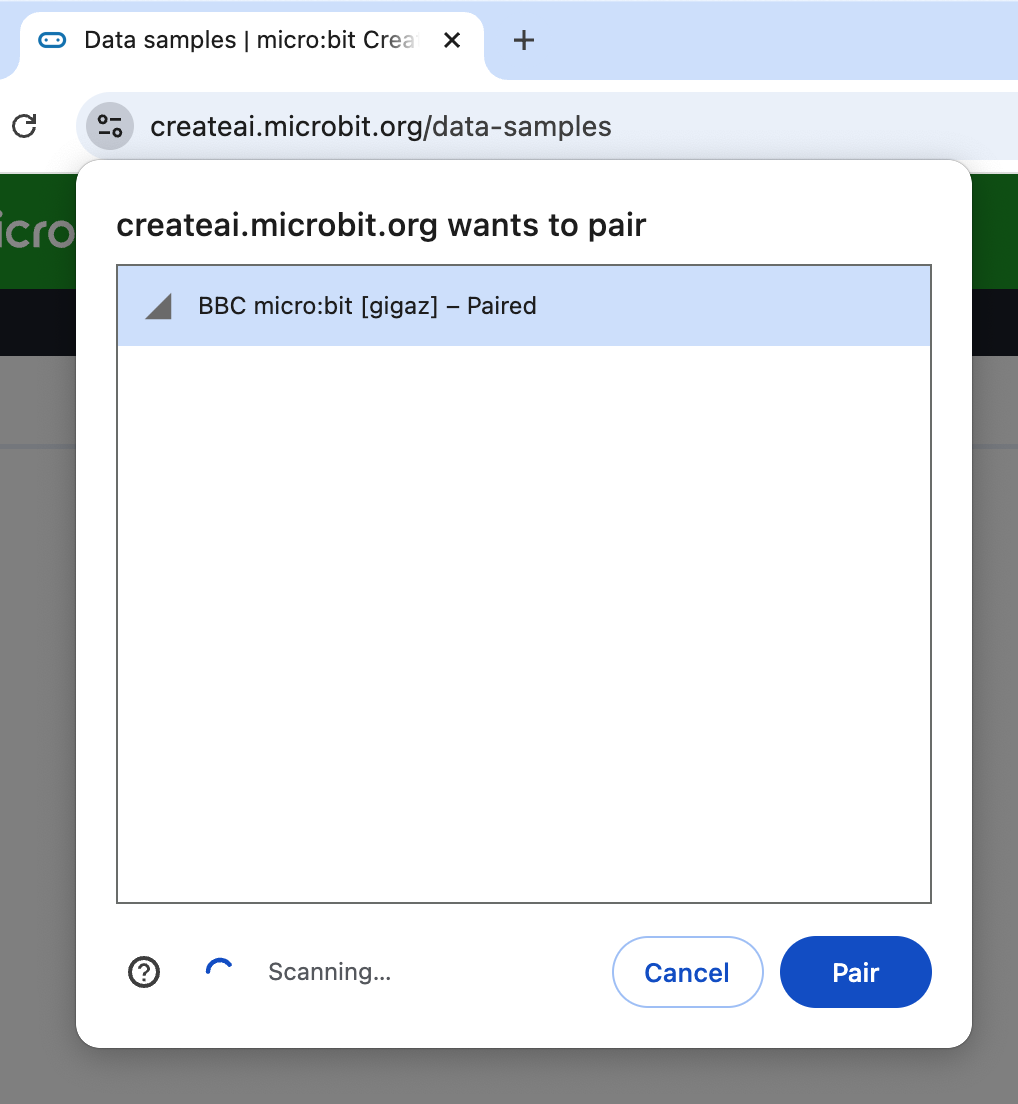
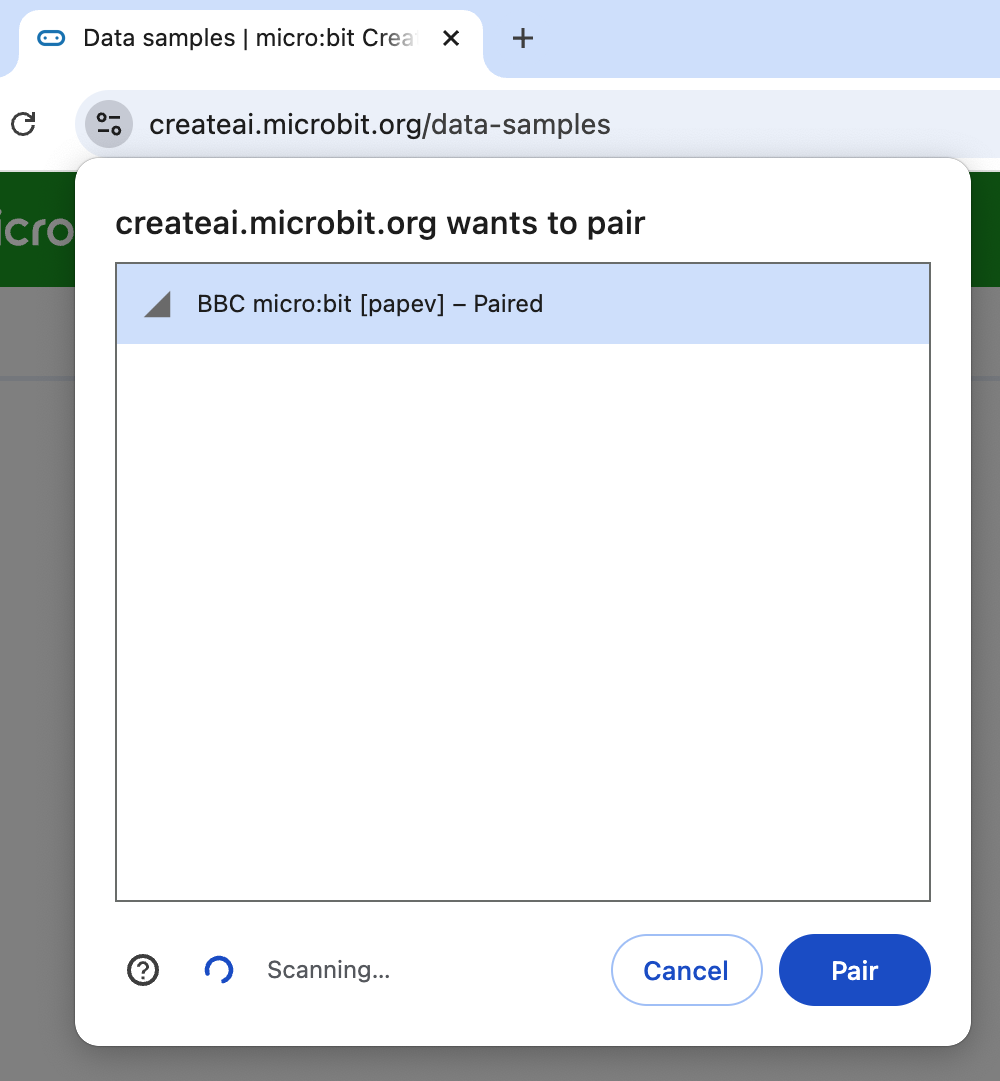
Replace select usb/bluetooth images to not have beta warning bar

diff --git a/src/components/SelectMicrobitUsbDialog.tsx b/src/components/SelectMicrobitUsbDialog.tsx
@@ -38,7 +38,7 @@ const SelectMicrobitUsbDialog = ({ ...props }: SelectMicrobitDialogProps) => {
       <Box position="relative" width="100%">
         <Image
           height={375}
-          width={349}
+          width={342}
           src={selectMicrobitImage}
           alt={intl.formatMessage({ id: "connect-help-alt" })}
         />
@@ -55,7 +55,7 @@ const SelectMicrobitUsbDialog = ({ ...props }: SelectMicrobitDialogProps) => {
         <List
           position="absolute"
           left="490px"
-          top="61px"
+          top="68px"
           alignItems="flex-start"
           spacing={2}
         >
@@ -80,10 +80,10 @@ const SelectMicrobitUsbDialog = ({ ...props }: SelectMicrobitDialogProps) => {
             </Flex>
           </ListItem>
         </List>
-        <Box position="absolute" top="81px" left="230px">
+        <Box position="absolute" top="85px" left="230px">
           <ArrowOne />
         </Box>
-        <Box position="absolute" bottom="48px" left="256px">
+        <Box position="absolute" bottom="43px" left="259px">
           <ArrowTwo />
         </Box>
       </Box>

diff --git a/src/components/SelectMicrobitBluetoothDialog.tsx b/src/components/SelectMicrobitBluetoothDialog.tsx
@@ -65,7 +65,7 @@ const SelectMicrobitBluetoothDialog = ({
             </Flex>
           </ListItem>
           <ListItem>
-            <Flex alignItems="center" height="45px">
+            <Flex alignItems="center" height="57px">
               <VisuallyHidden>
                 <Text>2. </Text>
               </VisuallyHidden>
@@ -75,10 +75,10 @@ const SelectMicrobitBluetoothDialog = ({
             </Flex>
           </ListItem>
         </List>
-        <Box position="absolute" top="85px" left="240px">
+        <Box position="absolute" top="86px" left="240px">
           <ArrowOne />
         </Box>
-        <Box position="absolute" bottom="48px" left="265px">
+        <Box position="absolute" bottom="42px" left="268px">
           <ArrowTwo />
         </Box>
       </Box>
